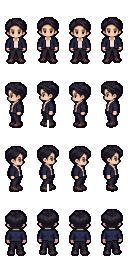
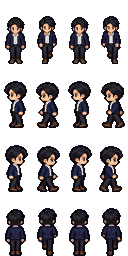
Use the ChatGPT-drawn art for characters, NPCs and key objects
- tools/import_gpt_art.py shrinks the large drawings in tools/source_art
  to game size: splits frames at the gaps, drops faint edge pixels,
  builds a small palette from visible pixels only, adds the 1px outline
  and keeps proportions (no stretching).
- Lắc and Tím walk with real 4-frame cycles; front/back step 4 reuses the
  mirrored legs of step 2 so the two steps use opposite feet.
- New portraits (captain, keeper, Pip, storm) and objects (lighthouse,
  watchtower, log, wreck, radio, lens, lamp, boat, rock, mast).
- The storm boss plays a 4-frame animation; the lighthouse door glow is
  centred on the new door; the title background is rebuilt.
- build_art.py runs the importer last so placeholders never overwrite
  the drawn art.

Claude-Session: https://claude.ai/code/session_01S1M8FXvkpL6erWMUtehxvp

diff --git a/client/src/scenes/BootScene.js b/client/src/scenes/BootScene.js
@@ -28,7 +28,7 @@ export class BootScene extends Phaser.Scene {
     this.load.image('prompt', 'ui/prompt.png');
     this.load.image('dot', 'ui/dot.png');
     this.load.image('soft', 'ui/soft.png');
-    this.load.image('storm', 'boss/storm.png');
+    this.load.spritesheet('storm', 'boss/storm.png', { frameWidth: 128, frameHeight: 96 });
     this.load.image('lamp0', 'boss/lamp0.png');
     this.load.image('lamp1', 'boss/lamp1.png');
     this.load.image('boat', 'boss/boat.png');
@@ -54,6 +54,7 @@ export class BootScene extends Phaser.Scene {
       }
       this.anims.create({ key: 'pip_idle', frames: this.anims.generateFrameNumbers('pip', { start: 0, end: 1 }), frameRate: 2, repeat: -1 });
       this.anims.create({ key: 'pip_fly', frames: this.anims.generateFrameNumbers('pip', { start: 2, end: 3 }), frameRate: 8, repeat: -1 });
+      this.anims.create({ key: 'storm_brew', frames: this.anims.generateFrameNumbers('storm', { start: 0, end: 3 }), frameRate: 4, repeat: -1 });
       this.anims.create({ key: 'gull_fly', frames: this.anims.generateFrameNumbers('gull', { start: 0, end: 1 }), frameRate: 4, repeat: -1 });
       this.makeFogHole();
       this.makeShadow();

diff --git a/client/src/scenes/WorldScene.js b/client/src/scenes/WorldScene.js
@@ -229,7 +229,7 @@ export class WorldScene extends Phaser.Scene {
     add('cottage', 'cottage', M.cottage.x * T, (M.cottage.y + 1) * T, 0, 1);
     add('shed', 'shed', M.shed.x * T, (M.shed.y + 1) * T, 0, 1);
     add('lighthouse', 'lighthouse', M.lighthouse.x * T + 8, (M.lighthouse.y + 1) * T);
-    this.objs.doorGlow = this.add.image(M.lighthouse.x * T + 8 + 12, M.lighthouse.y * T + 2, 'door_glow').setDepth(M.lighthouse.y * T + 20).setVisible(false).setScale(0.6);
+    this.objs.doorGlow = this.add.image(M.lighthouse.x * T + 8, M.lighthouse.y * T + 2, 'door_glow').setDepth(M.lighthouse.y * T + 20).setVisible(false).setScale(0.6);
     this.tweens.add({ targets: this.objs.doorGlow, alpha: 0.3, duration: 700, yoyo: true, repeat: -1 });
     add('tower', 'tower', (M.tower.x) * T, (M.tower.y + 1) * T);
     for (const id of ['sign_beach', 'sign_woods', 'sign_tower']) add(id, 'sign', M[id].x * T + 8, (M[id].y + 1) * T);

diff --git a/client/src/scenes/BossScene.js b/client/src/scenes/BossScene.js
@@ -35,7 +35,7 @@ export class BossScene extends Phaser.Scene {
     this.bg = this.add.graphics().setDepth(-100);
     this.drawBg();
     this.flash = this.add.rectangle(0, 0, W, H, 0xffffff, 0).setOrigin(0).setDepth(50);
-    this.storm = this.add.image(W / 2, 190, 'storm').setScale(2).setDepth(5);
+    this.storm = this.add.sprite(W / 2, 190, 'storm', 0).setScale(2).setDepth(5).play('storm_brew');
     this.tweens.add({ targets: this.storm, y: 202, duration: 1600, yoyo: true, repeat: -1, ease: 'Sine.easeInOut' });
     this.lampGlow = this.add.image(W / 2, H - 120, 'holeBig').setScale(2.2).setAlpha(0.25).setTint(0xffd27a).setDepth(1).setBlendMode(Phaser.BlendModes.ADD);
     this.lamp = this.add.image(W / 2, H - 120, 'lamp1').setScale(2).setDepth(6);

diff --git a/tools/import_gpt_art.py b/tools/import_gpt_art.py
@@ -1,0 +1,218 @@
+"""Turns the large drawings in tools/source_art/ into game-size sprites.
+
+    python3 tools/import_gpt_art.py
+
+Sources (big, transparent PNGs; see docs/THAY_HINH_NHAN_VAT.md):
+- <look>_walk_{down,right,up}.png   4 walk frames side by side. Left is
+                                    the right row mirrored.
+- <name>_face.png                   square dialogue portraits.
+- the objects in OBJECTS            1 or 2 states side by side, or 4
+                                    animation frames for the storm.
+
+Every drawing is shrunk with the same steps as Lắc/Tím's original art
+(box downscale, small palette, 1px dark outline) so it matches the
+Ninja Adventure pixel size.
+"""
+import json
+import os
+
+import numpy as np
+from PIL import Image, ImageOps
+
+from import_characters import FRAME_H, FRAME_W, HEIGHT, OUT as CHAR_OUT, add_outline, shrink
+
+ROOT = os.path.dirname(os.path.dirname(os.path.abspath(__file__)))
+SRC = os.path.join(ROOT, 'tools', 'source_art')
+ASSETS = os.path.join(ROOT, 'client', 'public', 'assets')
+
+# file -> (output paths per state, box w, box h, colours)
+OBJECTS = {
+    'lighthouse': (['props/lighthouse.png', 'props/lighthouse_on.png'], 64, 144, 32),
+    'watchtower': (['props/tower.png'], 40, 72, 24),
+    'log': (['props/log.png'], 48, 24, 20),
+    'wreck': (['props/wreck.png'], 56, 40, 24),
+    'radio_station': (['props/station.png', 'props/station_on.png'], 32, 28, 24),
+    'lens': (['props/lens.png'], 16, 16, 12),
+    'lamp': (['boss/lamp0.png', 'boss/lamp1.png'], 64, 64, 32),
+    'rescue_boat': (['boss/boat.png'], 24, 40, 20),
+    'sea_rock': (['boss/searock.png'], 24, 20, 16),
+    'mast': (['boss/mast.png'], 48, 15, 16),
+}
+STORM_FRAMES = 4
+STORM_BOX = (128, 96)
+FACES = ['captain', 'keeper', 'pip', 'storm']
+PORTRAIT = 190
+
+
+def load(name):
+    return Image.open(os.path.join(SRC, name)).convert('RGBA')
+
+
+def hard_alpha(img):
+    a = np.array(img)
+    a[..., 3] = np.where(a[..., 3] > 128, 255, 0)
+    return Image.fromarray(a)
+
+
+def segments(img, n=None, gap=12):
+    """Split a strip of drawings at the empty columns between them."""
+    if n and n > 1 and not _gaps(img, gap)[n - 1:]:
+        w = img.size[0] / n  # drawings touch: equal cells
+        return [img.crop((round(i * w), 0, round((i + 1) * w), img.size[1])) for i in range(n)]
+    return [img.crop((x0, 0, x1, img.size[1])) for x0, x1 in _gaps(img, gap)]
+
+
+def _gaps(img, gap):
+    col = (np.array(img)[..., 3] > 128).sum(0) > 2
+    segs, s = [], None
+    for x, v in enumerate(col):
+        if v and s is None:
+            s = x
+        if not v and s is not None:
+            segs.append([s, x])
+            s = None
+    if s is not None:
+        segs.append([s, len(col)])
+    out = []
+    for g in segs:
+        if out and g[0] - out[-1][1] < gap:
+            out[-1][1] = g[1]
+        else:
+            out.append(g)
+    return [tuple(g) for g in out if g[1] - g[0] > 20]
+
+
+def quantize(img, n):
+    """Small palette built from the visible pixels only, so the empty
+    background does not use up colours (white shirts, glowing eyes stay)."""
+    a = np.array(img)
+    solid = a[..., 3] > 0
+    px = a[solid][:, :3]
+    if len(px) == 0:
+        return img
+    pal = Image.fromarray(px[None]).quantize(colors=n, method=Image.Quantize.MEDIANCUT, kmeans=4, dither=Image.Dither.NONE)
+    a[solid, :3] = np.array(pal.convert('RGB'))[0]
+    return Image.fromarray(a)
+
+
+def legs_from(frame, other):
+    """Upper body of `frame` on the mirrored legs of `other` (opposite step)."""
+    a, b = np.array(frame), np.array(ImageOps.mirror(other))
+    rows = np.nonzero(a[..., 3].any(1))[0]
+    hip = rows.min() + int((rows.max() - rows.min()) * 0.66)
+    out = a.copy()
+    out[hip:] = b[hip:]
+    return Image.fromarray(out)
+
+
+def shrink_by(img, scale):
+    return shrink(img, max(1, round(img.size[1] * scale)))
+
+
+def finish(imgs, colours):
+    """Quantize several same-size images with one shared palette, then outline."""
+    w, h = imgs[0].size
+    strip = Image.new('RGBA', (w * len(imgs), h))
+    for i, im in enumerate(imgs):
+        strip.alpha_composite(im, (i * w, 0))
+    strip = add_outline(quantize(strip, colours))
+    return [strip.crop((i * w, 0, (i + 1) * w, h)) for i in range(len(imgs))]
+
+
+def fit_states(parts, bw, bh, colours, pad=1):
+    """Shrink every state with one scale so they line up, feet on the bottom row."""
+    parts = [hard_alpha(p) for p in parts]  # faint specks must not widen the box
+    boxes = [p.getbbox() for p in parts]
+    left = min(b[0] for b in boxes)
+    right = max(b[2] for b in boxes)
+    top = min(b[1] for b in boxes)
+    bot = max(b[3] for b in boxes)
+    scale = min((bw - 2 * pad) / (right - left), (bh - pad) / (bot - top))
+    out = []
+    for p in parts:
+        small = shrink_by(p.crop((left, top, right, bot)), scale)
+        frame = Image.new('RGBA', (bw, bh))
+        frame.alpha_composite(small, ((bw - small.size[0]) // 2, bh - small.size[1]))
+        out.append(frame)
+    return finish(out, colours)
+
+
+def objects():
+    for name, (paths, bw, bh, colours) in OBJECTS.items():
+        parts = segments(load(f'{name}.png'), len(paths))
+        assert len(parts) == len(paths), (name, len(parts))
+        for img, path in zip(fit_states(parts, bw, bh, colours), paths):
+            img.save(os.path.join(ASSETS, path))
+        print('object', name, '->', ', '.join(paths))
+    frames = fit_states(segments(load('storm.png'), STORM_FRAMES), *STORM_BOX, 24)
+    sheet = Image.new('RGBA', (STORM_BOX[0] * STORM_FRAMES, STORM_BOX[1]))
+    for i, f in enumerate(frames):
+        sheet.alpha_composite(f, (i * STORM_BOX[0], 0))
+    sheet.save(os.path.join(ASSETS, 'boss', 'storm.png'))
+    print('storm', STORM_FRAMES, 'frames')
+
+
+def faces():
+    for name in FACES:
+        im = load(f'{name}_face.png')
+        x0, y0, x1, y1 = im.getbbox()
+        side = max(x1 - x0, y1 - y0)
+        sq = Image.new('RGBA', (side, side))
+        sq.alpha_composite(im.crop((x0, y0, x1, y1)), ((side - (x1 - x0)) // 2, side - (y1 - y0)))
+        sq.resize((PORTRAIT, PORTRAIT), Image.LANCZOS).save(os.path.join(ASSETS, 'portraits', f'{name}.png'))
+        print('portrait', name)
+
+
+def anchor_x(img):
+    """Centre of the head, so the body does not slide sideways between frames."""
+    a = np.array(img)[..., 3] > 0
+    rows = np.nonzero(a.any(1))[0]
+    head = a[rows.min():rows.min() + max(1, (rows.max() - rows.min()) // 4)]
+    cols = np.nonzero(head.any(0))[0]
+    return (cols.min() + cols.max() + 1) / 2
+
+
+def walk(look):
+    rows = {}
+    for facing in ('down', 'right', 'up'):
+        parts = [hard_alpha(p) for p in segments(load(f'{look}_walk_{facing}.png'), 4)]
+        assert len(parts) == 4, (look, facing, len(parts))
+        stand = parts[0].getbbox()
+        scale = HEIGHT / (stand[3] - stand[1])  # standing frame = HEIGHT pixels
+        frames = []
+        for p in parts:
+            bb = p.getbbox()
+            small = shrink_by(p.crop(bb), scale)
+            frame = Image.new('RGBA', (FRAME_W, FRAME_H))
+            x = min(max(0, round(FRAME_W / 2 - anchor_x(small))), FRAME_W - small.size[0])
+            frame.alpha_composite(small, (x, FRAME_H - small.size[1]))
+            frames.append(frame)
+        if facing != 'right':  # front/back: make sure the two steps use opposite feet
+            frames[3] = legs_from(frames[3], frames[1])
+        rows[facing] = frames
+    rows['left'] = [ImageOps.mirror(f) for f in rows['right']]
+    order = ['down', 'left', 'right', 'up']
+    cells = finish([f for d in order for f in rows[d]], 32)
+    sheet = Image.new('RGBA', (FRAME_W * 4, FRAME_H * 4))
+    for i, c in enumerate(cells):
+        sheet.alpha_composite(c, ((i % 4) * FRAME_W, (i // 4) * FRAME_H))
+    sheet.save(os.path.join(CHAR_OUT, look, 'walk.png'))
+    print('walk', look)
+
+
+def main():
+    for look in ('lac', 'tim'):
+        if os.path.exists(os.path.join(SRC, f'{look}_walk_down.png')):
+            walk(look)
+    faces()
+    objects()
+    cfg_path = os.path.join(CHAR_OUT, 'config.json')
+    cfg = json.load(open(cfg_path, encoding='utf-8'))
+    cfg['_help'] = ('Nhân vật: mỗi thư mục (lac, tim) có walk.png = lưới 4 hàng (xuống, trái, phải, lên) x 4 khung bước đi, '
+                    'và portrait.png = chân dung vuông. frameWidth/frameHeight = kích thước MỘT khung. '
+                    'Tạo lại: python3 tools/import_characters.py (chân dung) rồi python3 tools/import_gpt_art.py (bước đi, NPC, đồ vật)')
+    json.dump(cfg, open(cfg_path, 'w', encoding='utf-8'), ensure_ascii=False, indent=2)
+
+
+if __name__ == '__main__':
+    main()

diff --git a/tools/build_art.py b/tools/build_art.py
@@ -528,6 +528,9 @@ def main():
     # the players' characters (Lắc, Tím) come from tools/import_characters.py
     GA.boss_sprites()
     GA.ui_bits()
+    # the drawn art in tools/source_art replaces the placeholders above
+    import import_gpt_art
+    import_gpt_art.main()
     title_background()
     print('art written to', OUT)
 

diff --git a/docs/THAY_HINH_NHAN_VAT.md b/docs/THAY_HINH_NHAN_VAT.md
@@ -9,7 +9,23 @@ Hai nhân vật lấy từ ảnh bạn gửi (`tools/source_art/lac_tim.webp`). 
   - `client/public/assets/characters/lac/walk.png` và `tim/walk.png`: khung **32×64**, người cao khoảng 46 điểm ảnh, giữ chi tiết của ảnh gốc.
   - `portrait.png`: chân dung cắt từ ảnh gốc (190×190).
 - Trong game, nhân vật được vẽ **bằng một nửa** (`"scale": 0.5` trong `config.json`), tức cao khoảng 23 điểm ảnh của cảnh (≈1,5 ô), vừa với nhà cửa và cây của bộ Ninja Adventure. Độ phóng to của game luôn là số chẵn (×2, ×4, ×6) để hình không bị răng cưa.
-- Ảnh gốc chỉ có tư thế đứng, nên dáng đi được tạo tự động (nhấc từng chân, nhún người 1 điểm ảnh). Muốn đi mượt hơn: nhờ AI tạo **4 khung bước đi cho mỗi hướng** cùng phong cách, rồi gửi mình ghép vào.
+- Dáng đi lấy từ 6 ảnh bước đi do ChatGPT vẽ (`tools/source_art/<lac|tim>_walk_<down|right|up>.png`, mỗi ảnh 4 khung xếp ngang). Hướng trái = hướng phải lật lại. Ở hướng xuống/lên, khung 4 dùng chân của khung 2 lật lại để hai bước đổi chân.
+
+## Hình do ChatGPT vẽ (nhân vật phụ, đồ vật, bão)
+
+Ảnh gốc khổ lớn nằm trong `tools/source_art/` (danh sách và lưu ý của ChatGPT: `DOC_TRUOC.md`). Script `python3 tools/import_gpt_art.py` thu nhỏ chúng về đúng kích thước trong game: tách khung theo khoảng trống, cắt mép mờ, gom về ít màu, kẻ viền tối 1 điểm ảnh, giữ tỉ lệ (không kéo giãn).
+
+| Ảnh gốc | Thành file trong game |
+|---|---|
+| `lac_walk_*`, `tim_walk_*` | `characters/lac/walk.png`, `characters/tim/walk.png` |
+| `captain_face`, `keeper_face`, `pip_face`, `storm_face` | `portraits/*.png` (190×190) |
+| `lighthouse` (tắt/sáng) | `props/lighthouse.png`, `lighthouse_on.png` (64×144) |
+| `watchtower`, `log`, `wreck`, `lens` | `props/tower.png`, `log.png`, `wreck.png`, `lens.png` |
+| `radio_station` (tắt/sáng) | `props/station.png`, `station_on.png` |
+| `lamp` (tắt/sáng), `rescue_boat`, `sea_rock`, `mast` | `boss/lamp0/1.png`, `boat.png`, `searock.png`, `mast.png` |
+| `storm` (4 khung) | `boss/storm.png` (4 khung 128×96, chạy hoạt ảnh trong màn đánh trùm) |
+
+Muốn thay một hình: thay ảnh gốc cùng tên trong `tools/source_art/` rồi chạy lại `python3 tools/import_gpt_art.py`. `npm run art` cũng tự chạy script này sau cùng, nên hình mới không bị hình tạm đè lên.
 
 ## Thay hình sau này
 
@@ -73,4 +89,4 @@ Tên vai trong giao diện có màu cam (Thợ máy) và xanh ngọc (Điện đ
 
 ## Các hình tạm khác
 
-Mọi hình khác nằm trong `client/public/assets/` (cây, nhà, hải đăng, vẹt Pip, chân dung NPC...). Mỗi hình là một file riêng. Thay bằng ảnh **cùng kích thước** là game nhận ngay. Lệnh `npm run art` dựng lại các hình này từ bộ Ninja Adventure nhưng **không** đụng tới hình nhân vật trong `characters/` (trừ khi chạy `python3 tools/build_art.py --characters`).
+Mọi hình khác nằm trong `client/public/assets/` (cây, nhà, vẹt Pip ngoài bản đồ, hải âu...). Mỗi hình là một file riêng. Thay bằng ảnh **cùng kích thước** là game nhận ngay. Lệnh `npm run art` dựng lại các hình này từ bộ Ninja Adventure nhưng **không** đụng tới hình nhân vật trong `characters/` (trừ khi chạy `python3 tools/build_art.py --characters`).

diff --git a/docs/BAN_QUYEN.md b/docs/BAN_QUYEN.md
@@ -8,9 +8,10 @@
 | Vite | npm `vite` (chỉ dùng khi build) | MIT |
 | Phông VT323 | npm `@fontsource/vt323` | SIL Open Font License 1.1 |
 | Phông Be Vietnam Pro | npm `@fontsource/be-vietnam-pro` | SIL Open Font License 1.1 |
-| Phần lớn hình ảnh: nền cỏ/cát/đất, vách đất, cây, đá, nhà, đồ nội thất, rương, nhân vật tạm, chân dung, vẹt Pip | Bộ **Ninja Adventure** của **Pixel-boy**, do Sparklin Labs phát hành tại [github.com/sparklinlabs/superpowers-asset-packs](https://github.com/sparklinlabs/superpowers-asset-packs) (bản gốc: pixel-boy.itch.io/ninja-adventure-asset-pack) | **CC0 1.0** (tặng vào miền công cộng, dùng tự do kể cả thương mại, không bắt buộc ghi công). File gốc + giấy phép: `tools/vendor/ninja-adventure/` |
+| Phần lớn hình ảnh: nền cỏ/cát/đất, vách đất, cây, đá, nhà, đồ nội thất, rương, vẹt Pip ngoài bản đồ, hải âu | Bộ **Ninja Adventure** của **Pixel-boy**, do Sparklin Labs phát hành tại [github.com/sparklinlabs/superpowers-asset-packs](https://github.com/sparklinlabs/superpowers-asset-packs) (bản gốc: pixel-boy.itch.io/ninja-adventure-asset-pack) | **CC0 1.0** (tặng vào miền công cộng, dùng tự do kể cả thương mại, không bắt buộc ghi công). File gốc + giấy phép: `tools/vendor/ninja-adventure/` |
 | Nhạc nền (7 bài) và hiệu ứng âm thanh chính | Cùng bộ Ninja Adventure ở trên, chuyển sang MP3 | CC0 1.0 |
-| Hải đăng, tháp canh, khúc gỗ, xác thuyền, radio, cơn bão, con thuyền cảnh cuối, bờ biển | Vẽ bằng script (`tools/build_art.py`, `tools/gen_art.py`) theo bảng màu của bộ trên | Thuộc chủ repo |
+| Lắc, Tím (ảnh gốc và dáng đi), chân dung thuyền trưởng/bà gác đèn/Pip/cơn bão, hải đăng, tháp canh, khúc gỗ, xác thuyền, radio, thấu kính, bóng đèn hải đăng, xuồng cứu hộ, đá ngầm, cột buồm, cơn bão | Chủ repo cung cấp; phần lớn tạo bằng ChatGPT (công cụ tạo ảnh), ảnh gốc trong `tools/source_art/`, thu nhỏ bằng `tools/import_gpt_art.py` | Theo điều khoản sử dụng của OpenAI cho ảnh do người dùng tạo. Hãy tự kiểm tra trước khi chia sẻ công khai hoặc kinh doanh. |
+| Bờ biển, sóng nước | Vẽ bằng script (`tools/build_art.py`, `tools/gen_art.py`) theo bảng màu của bộ trên | Thuộc chủ repo |
 | Âm thanh phụ (bước chân, gõ phím, sấm, sóng, gió) | Tổng hợp bằng code (Web Audio) lúc chạy | Thuộc chủ repo |
 | Giọng đọc tiếng Anh | Giọng có sẵn của trình duyệt/hệ điều hành người chơi (Web Speech API) | Theo điều khoản của trình duyệt/HĐH. Game không lưu hay phát tán âm thanh này. |
 | Nhận diện giọng nói (nút 🎙, tuỳ chọn) | Web Speech API của Chrome/Edge | Theo điều khoản của trình duyệt. Âm thanh do Google/Microsoft xử lý. |

diff --git a/docs/TIEN_DO.md b/docs/TIEN_DO.md
@@ -2,6 +2,14 @@
 
 Tài liệu này không tiết lộ cốt truyện.
 
+## Phiên bản 0.4.0 — hình do ChatGPT vẽ (22/10/2026)
+
+- Lắc và Tím có dáng đi thật (4 khung mỗi hướng) thay cho dáng đi tạo tự động.
+- Chân dung mới: thuyền trưởng, bà gác đèn, Pip, cơn bão.
+- Hình mới: hải đăng (tắt/sáng), tháp canh, khúc gỗ, xác thuyền, radio (tắt/sáng), thấu kính, bóng đèn hải đăng, xuồng cứu hộ, đá ngầm, cột buồm trôi. Cơn bão có hoạt ảnh 4 khung trong màn đánh trùm.
+- Script mới `tools/import_gpt_art.py` chuyển ảnh gốc khổ lớn thành hình đúng cỡ. Đã xử lý các lỗi ChatGPT tự ghi trong `tools/source_art/DOC_TRUOC.md` (dư màu, mép mờ, sai tỉ lệ khung, hai bước nhấc cùng chân).
+- Kiểm thử: 12/12 luật chơi, chơi tự động trọn game với 2 trình duyệt, kiểm thử kết nối lại — đều đạt. Chưa thử trên 2 máy thật.
+
 ## Phiên bản 0.3.0 — Lắc và Tím (22/10/2026)
 
 - Hai nhân vật chính lấy từ ảnh bạn gửi: **Lắc** và **Tím**. Mỗi người chơi tự chọn mình là ai, tách riêng với việc chọn vai. Nếu hai người chọn trùng, người vào sau nhận nhân vật còn lại.
@@ -62,7 +70,7 @@ Kiểm thử tự động mở **2 trình duyệt Chromium độc lập** (hai h
 
 ### Tài nguyên tạm (cần/được phép thay)
 
-- **Hình ảnh**: từ bộ Ninja Adventure (CC0), cộng một số hình mình vẽ theo phong cách bộ (xem `docs/BAN_QUYEN.md`). Hai nhân vật chính là hình tạm lấy từ bộ, xem `docs/THAY_HINH_NHAN_VAT.md`.
+- **Hình ảnh**: từ bộ Ninja Adventure (CC0), cộng một số hình mình vẽ theo phong cách bộ (xem `docs/BAN_QUYEN.md`). Hai nhân vật chính, nhân vật phụ và các đồ vật chính do bạn cung cấp (ảnh gốc + ChatGPT), xem `docs/THAY_HINH_NHAN_VAT.md`.
 - **Nhạc và hiệu ứng chính**: từ bộ Ninja Adventure (CC0). Một số tiếng (bước chân, gõ phím, sấm, sóng) được tổng hợp bằng code.
 - **Giọng đọc**: giọng máy của trình duyệt. Có thể thay bằng file thu âm: đặt file vào `client/public/assets/voice/` kèm `manifest.json` dạng `{ "câu tiếng Anh y hệt": "ten-file.mp3" }`.
 - Mình chọn nhạc cho từng khu vực bằng cách phân tích nhịp độ và giọng trưởng/thứ, chưa nghe thử được. Nếu bài nào không hợp, đổi file trong `client/public/assets/audio/music/`.
